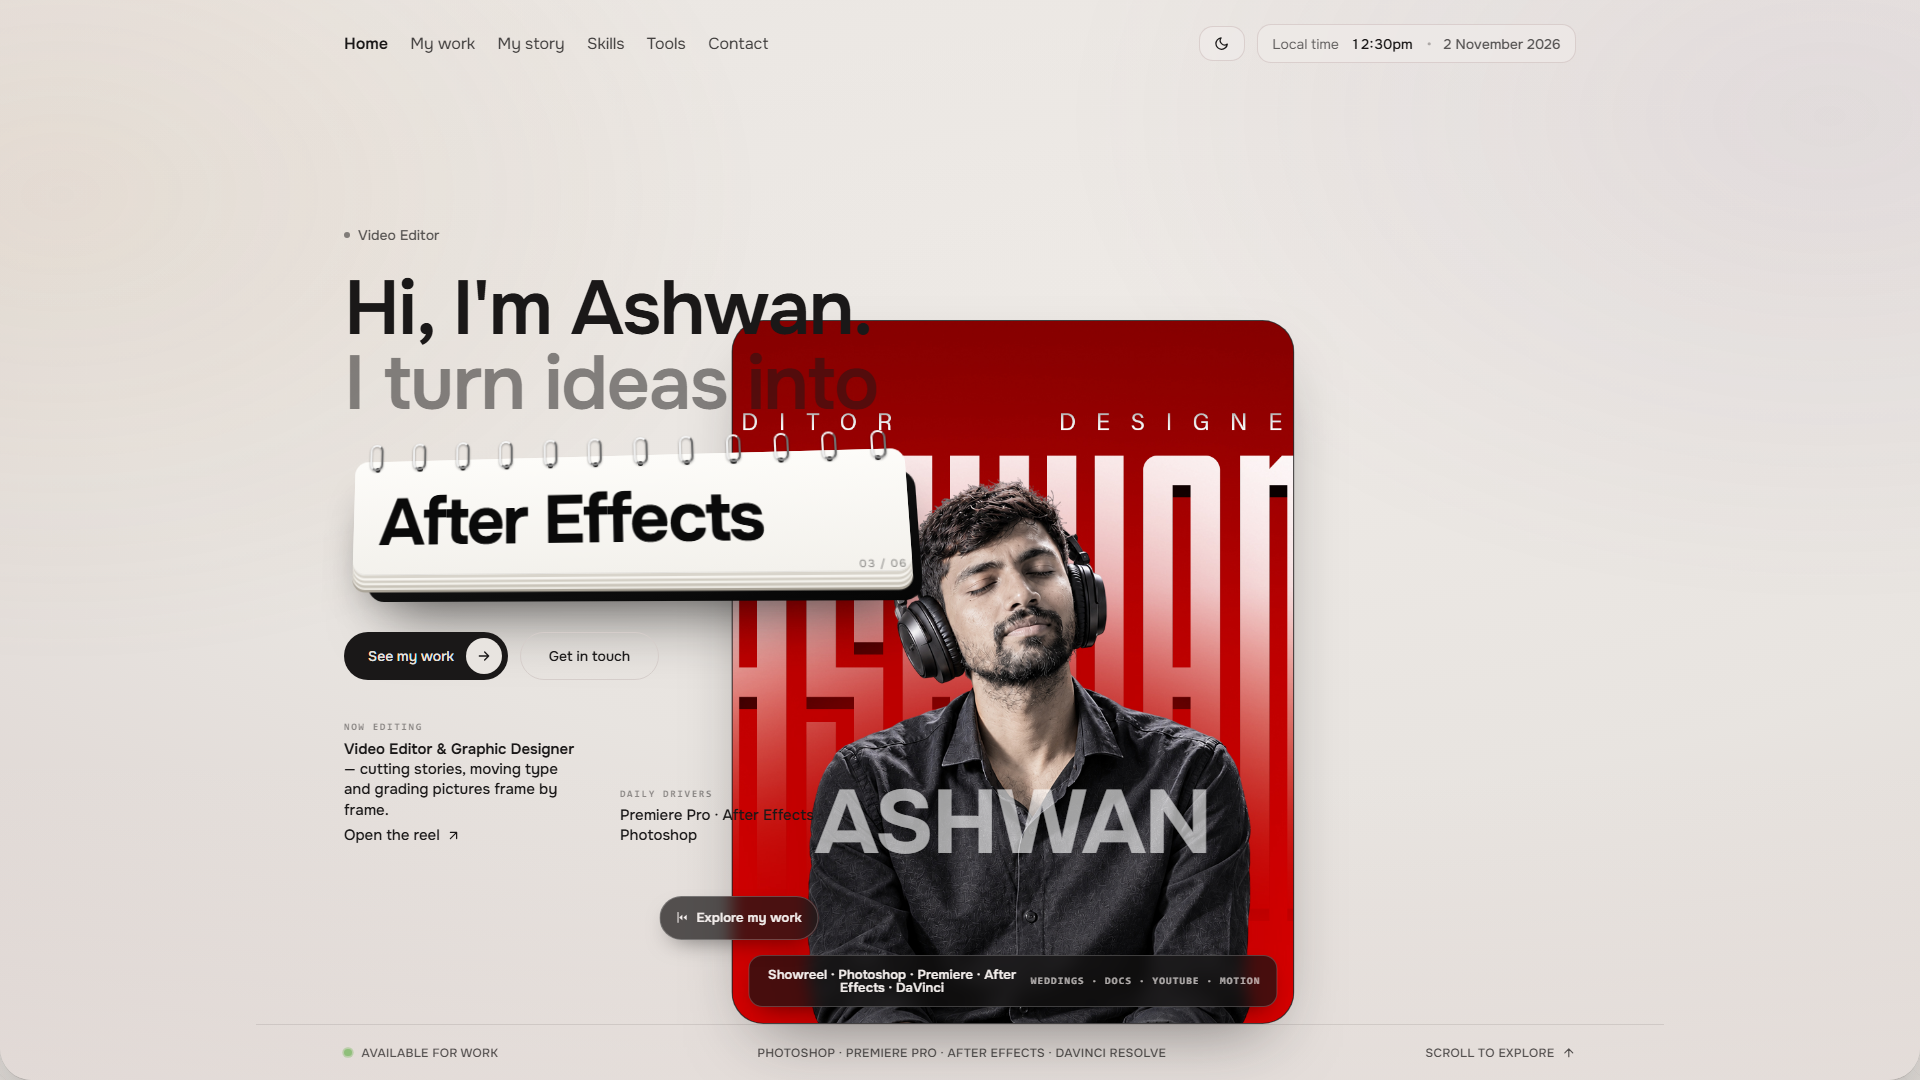
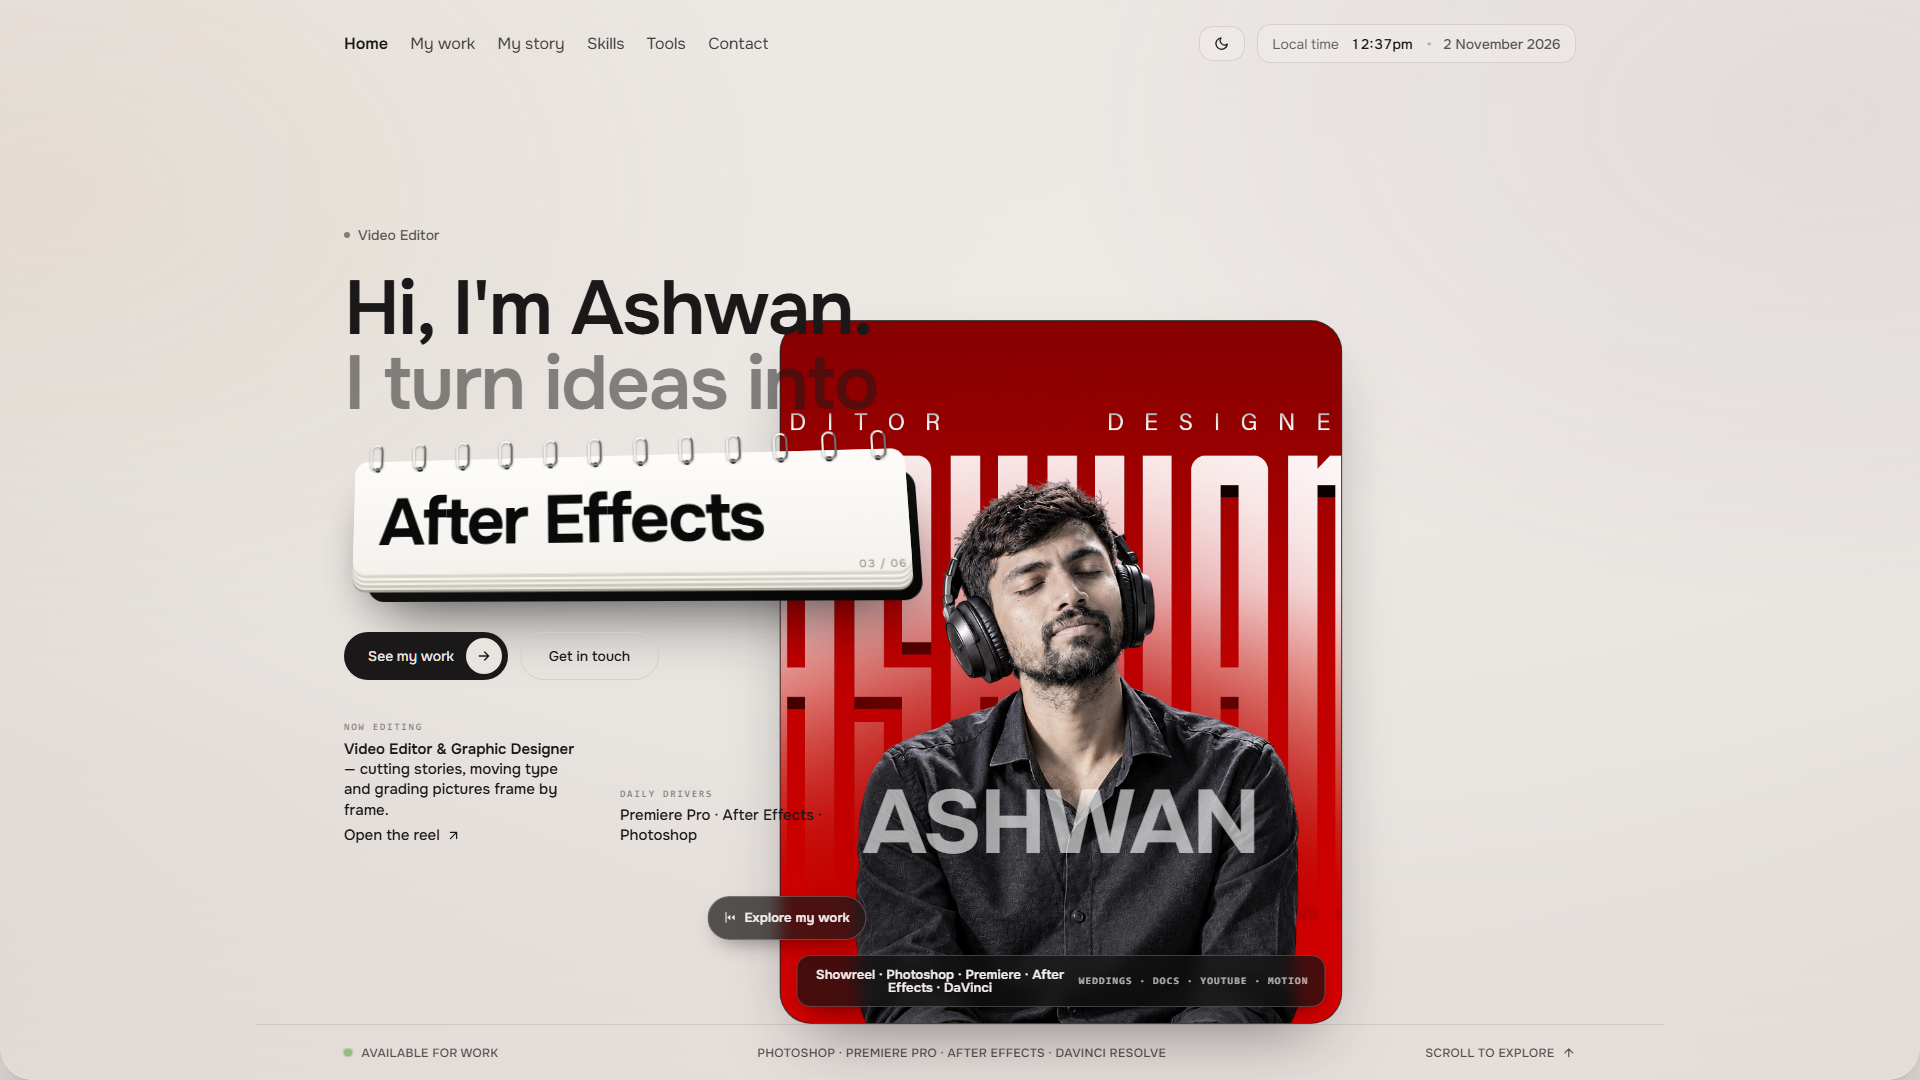
Nudge hero intro image slightly to the right on wide screens

Changed region(s): [[0.3438, 0.275, 0.7188, 0.9778], [0.375, 0.3056, 0.4688, 0.4278]]

diff --git a/src/styles/hero.css b/src/styles/hero.css
@@ -370,3 +370,10 @@ html[data-mode='dark'] .cal__word { color: #0a0a0a; }
     transform: translate(-50%, 0);
   }
 }
+/* wide screens: nudge the reel a touch further to the right — clears the
+   greeting tail more and trims the dead cream gap before the frame edge */
+@media (min-width: 1280px) {
+  .fig {
+    right: calc(max(0px, (100% - var(--container-shell)) / 2) + var(--gut-lg) - 3rem);
+  }
+}
